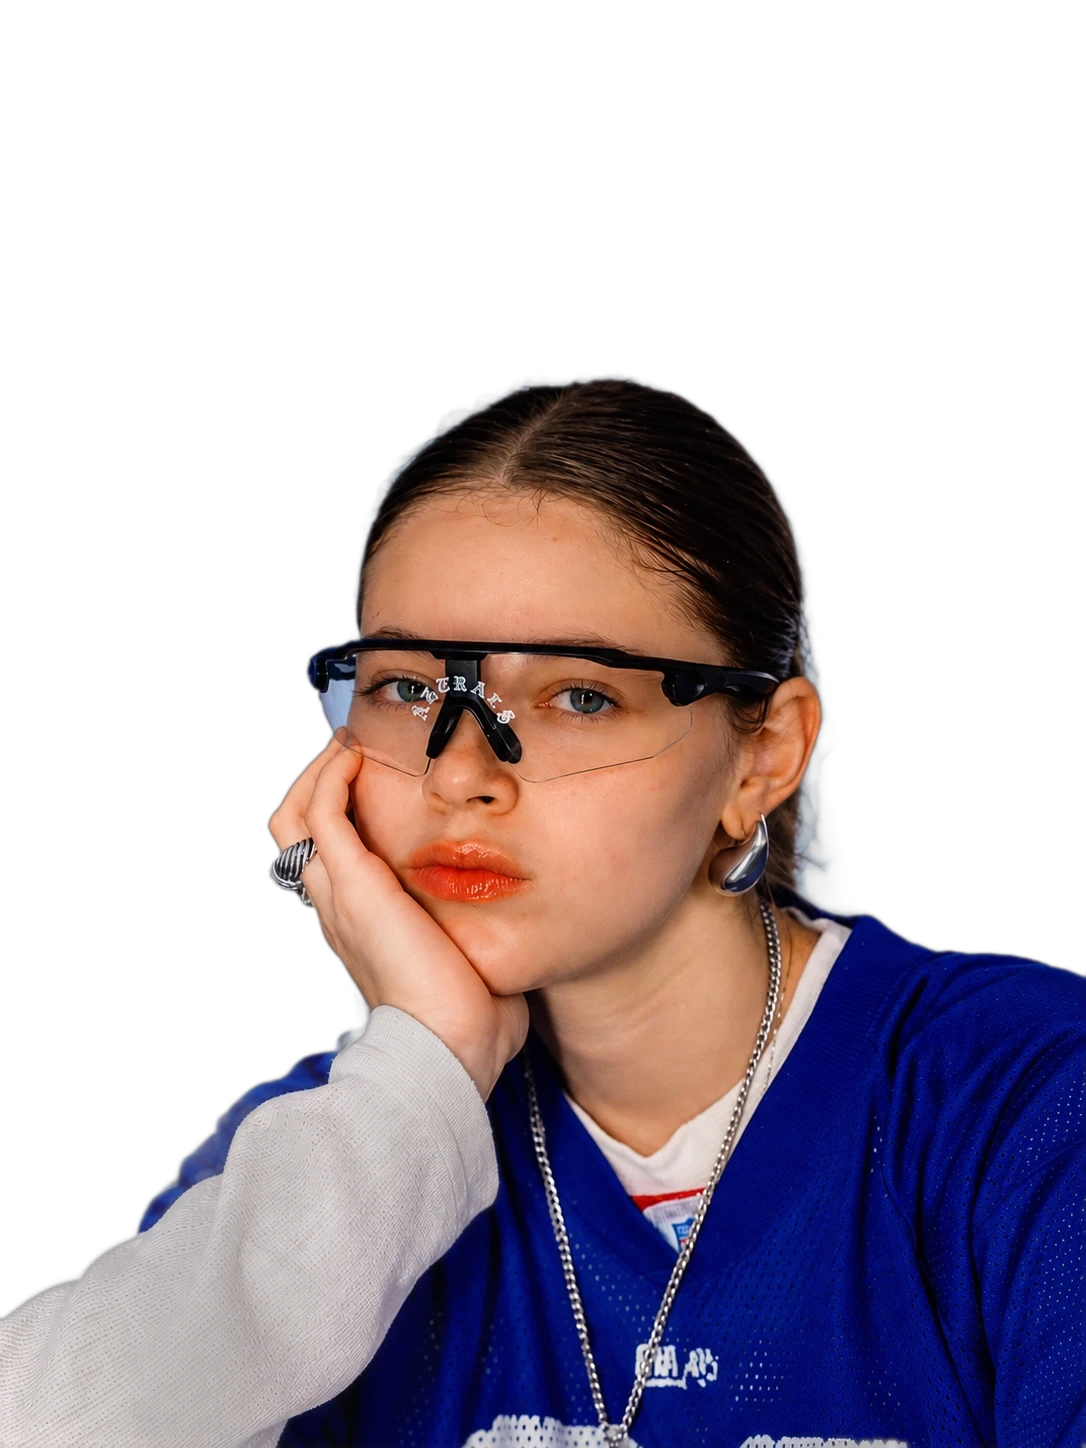
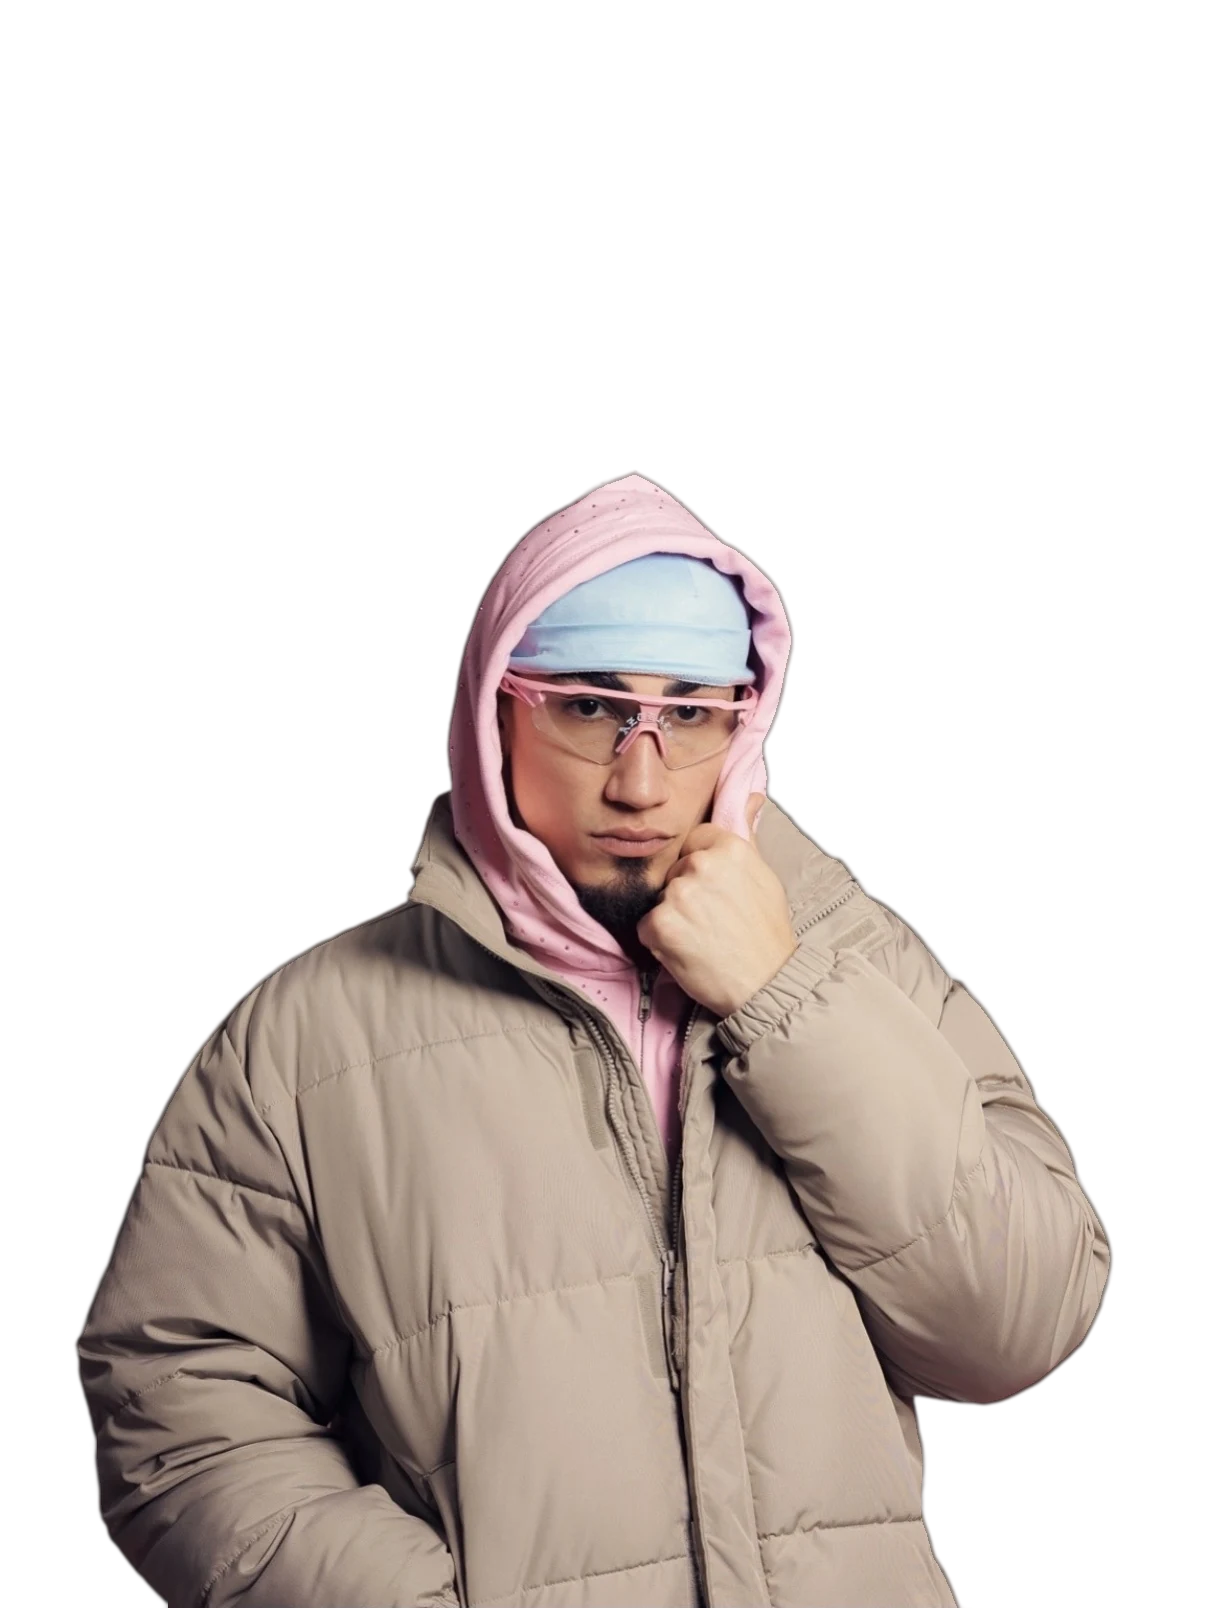
Hero: new model photo (pink glasses, hood and puffer jacket)
- The campaign photo replaces the previous hero model in the same format: a
  transparent 3:4 cut-out standing behind the AZTRALS wordmark, with the
  side and bottom edges dissolving into the page.
- The Instagram sound icon and the dark bottom strip were removed from the
  source. The edges were tightened and toned so no pink backdrop halo shows
  on black.
- The lens glint is moved onto his lenses. Alt text and comments updated.

Claude-Session: https://claude.ai/code/session_01WBaQmTisByD1k2zvPE8nML

diff --git a/src/i18n/index.ts b/src/i18n/index.ts
@@ -52,7 +52,7 @@ const es = {
     text: 'Gafas de sol polarizadas para la luz fuerte de Puerto Rico: la playa, la carretera y el entreno.',
     cta: (name: string) => `Comprar ${name}`,
     latest: 'Lanzamiento',
-    photoAlt: 'Modelo con gafas deportivas Aztrals de lente transparente y jersey azul',
+    photoAlt: 'Modelo con gafas deportivas Aztrals de montura rosada y lente transparente, capucha rosada y abrigo acolchado',
   },
   releases: {
     title: 'Encuentra tus Aztrals',
@@ -173,7 +173,7 @@ const en: Dict = {
     text: 'Polarized sunglasses for the hard light of Puerto Rico: the beach, the road and the workout.',
     cta: (name: string) => `Buy ${name}`,
     latest: 'New release',
-    photoAlt: 'Model wearing clear-lens Aztrals sport glasses and a blue jersey',
+    photoAlt: 'Model wearing pink-frame, clear-lens Aztrals sport glasses, a pink hood and a puffer jacket',
   },
   releases: {
     title: 'Find your Aztrals',

diff --git a/src/scripts/motion/hero.ts b/src/scripts/motion/hero.ts
@@ -1,7 +1,7 @@
 // Hero.
 // - Typing, in order: first the headline "Stay Aztral" types out with a blinking caret, then
-//   the caret jumps to the AZTRALS name in front of her, which types out letter by letter.
-// - On scroll she stays behind the name, sinking a little slower than the page (so her cropped base
+//   the caret jumps to the AZTRALS name in front of the model, which types out letter by letter.
+// - On scroll the model stays behind the name, sinking a little slower than the page (so the cropped base
 //   never lifts into view) while the name holds its place; the headline and buy column lift away
 //   in layers.
 import { gsap } from 'gsap';

diff --git a/src/scripts/motion/glint.ts b/src/scripts/motion/glint.ts
@@ -1,4 +1,4 @@
-// Light catches the lens: a soft band of light sweeps across her glasses shortly after the page
+// Light catches the lens: a soft band of light sweeps across the model's glasses shortly after the page
 // opens, then again every few seconds while the hero is on screen.
 import { gsap } from 'gsap';
 import { ScrollTrigger } from 'gsap/ScrollTrigger';
